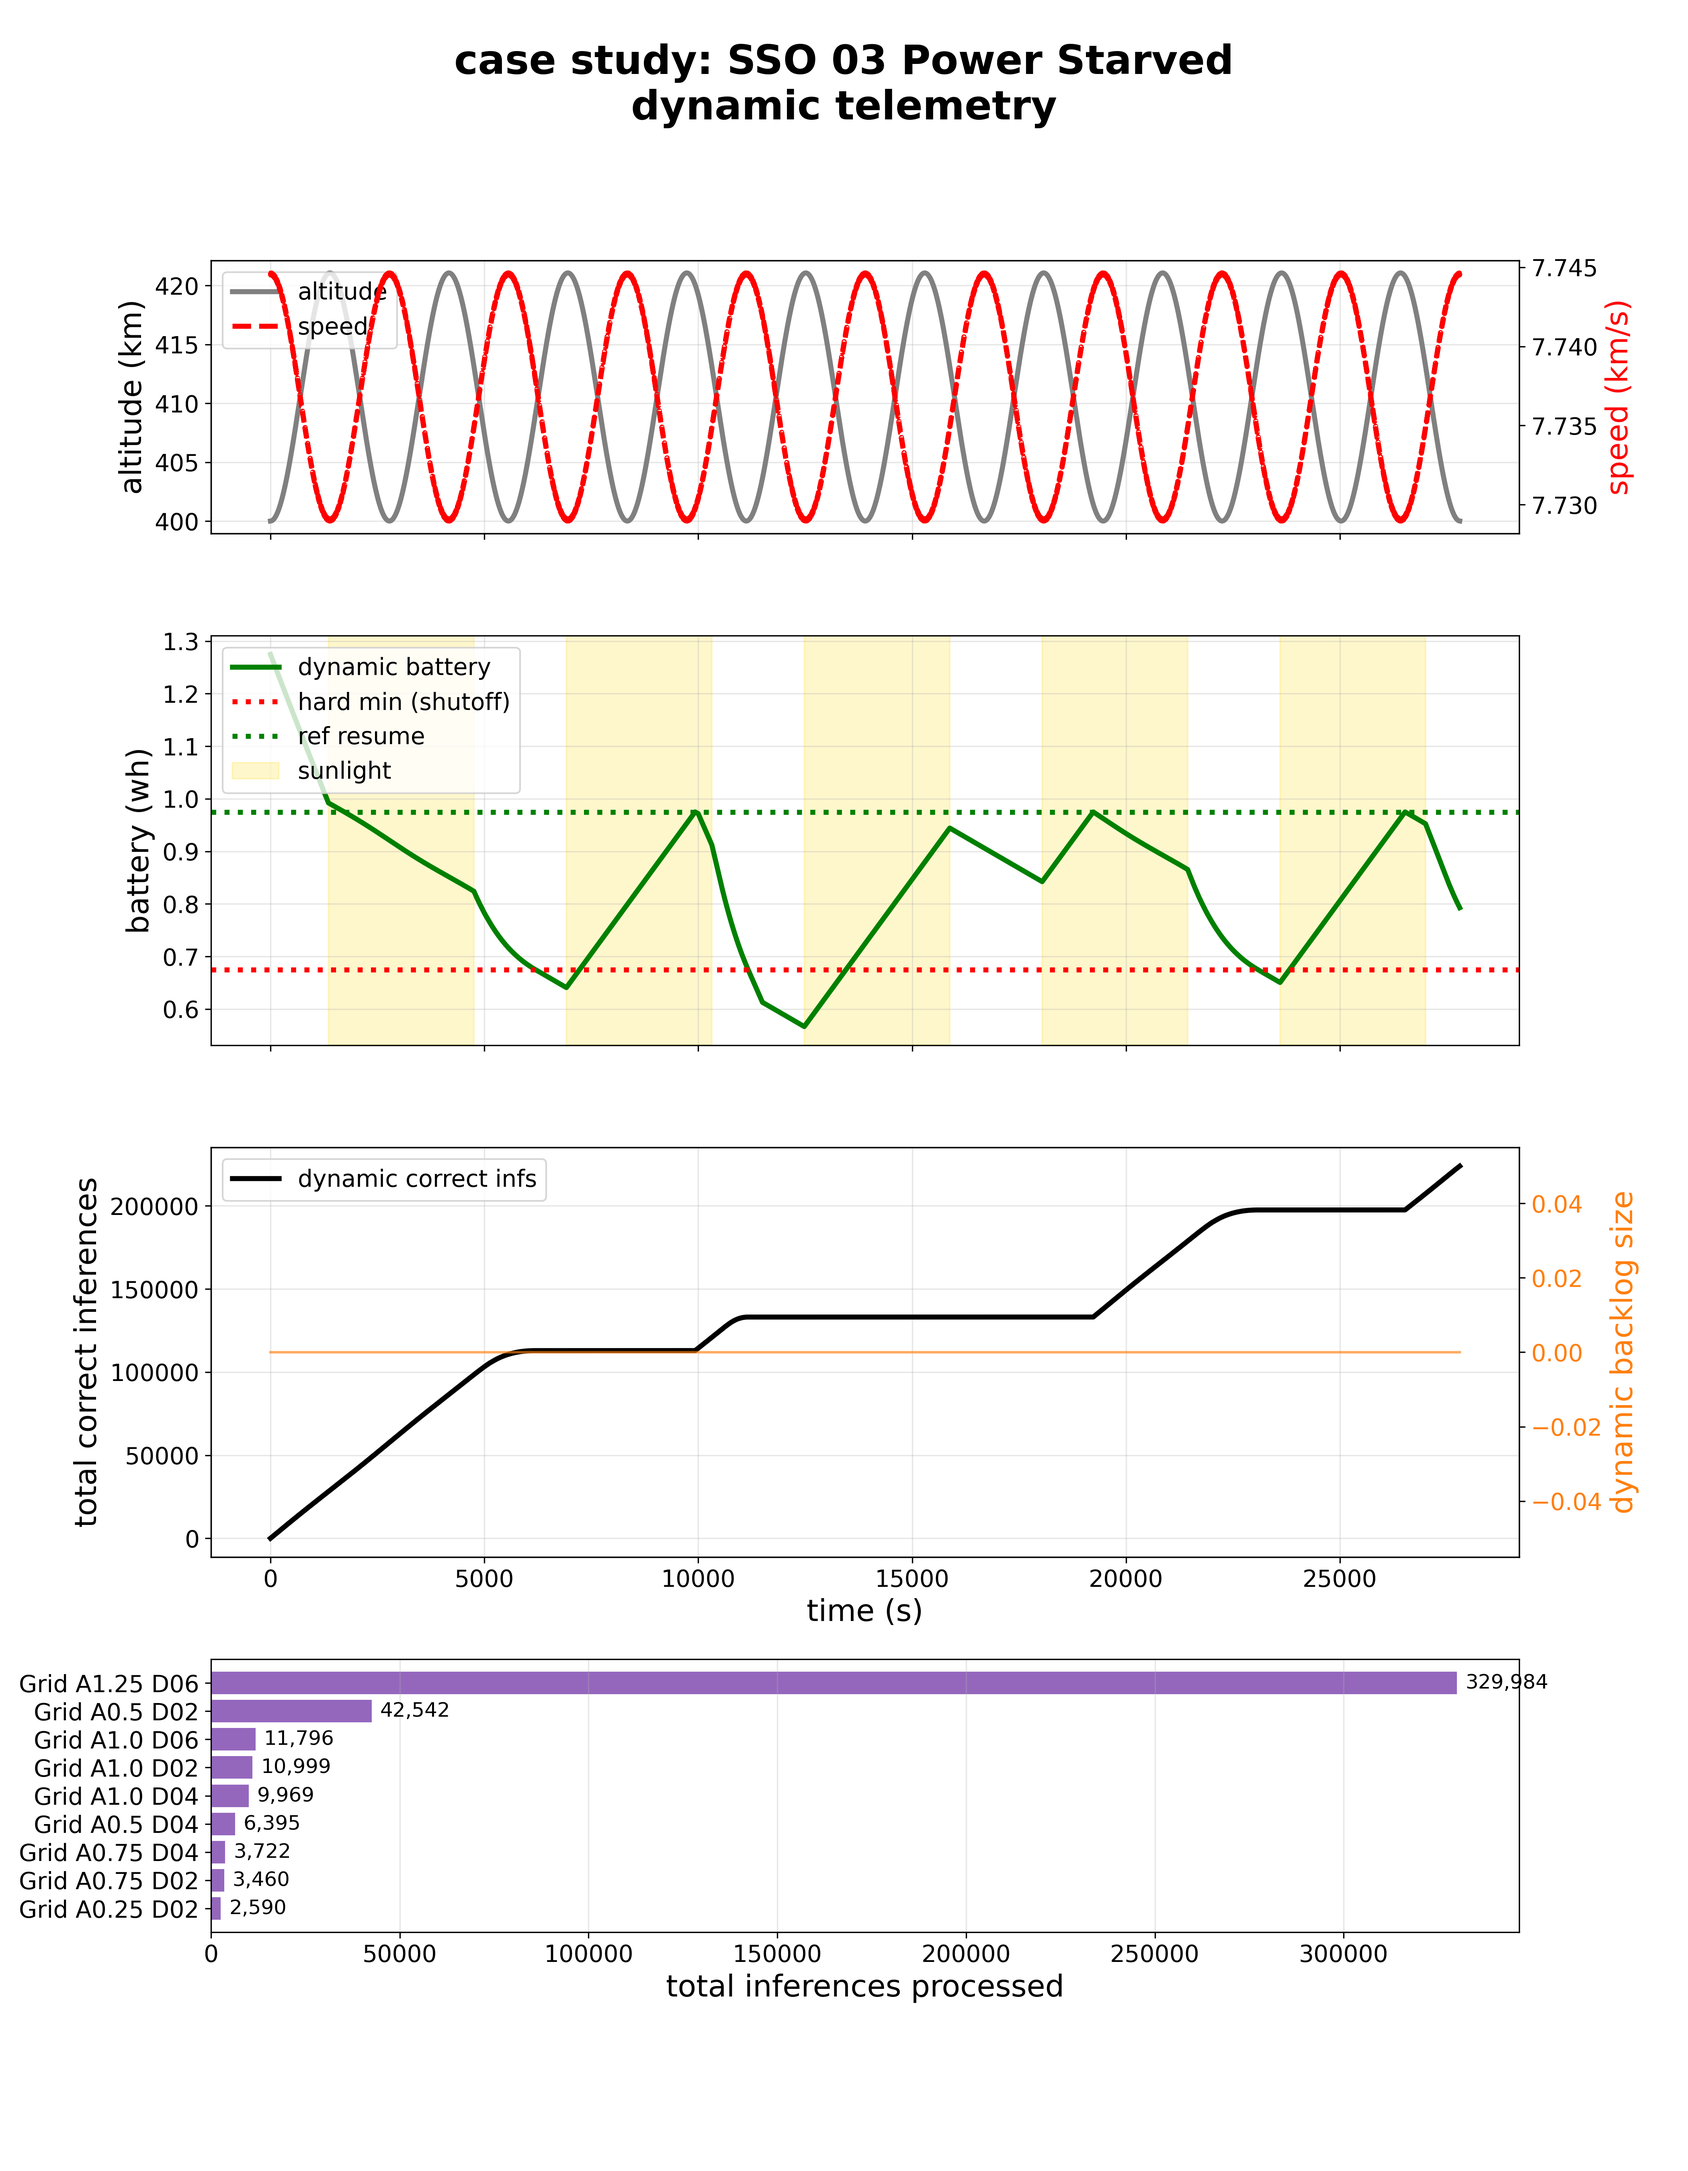
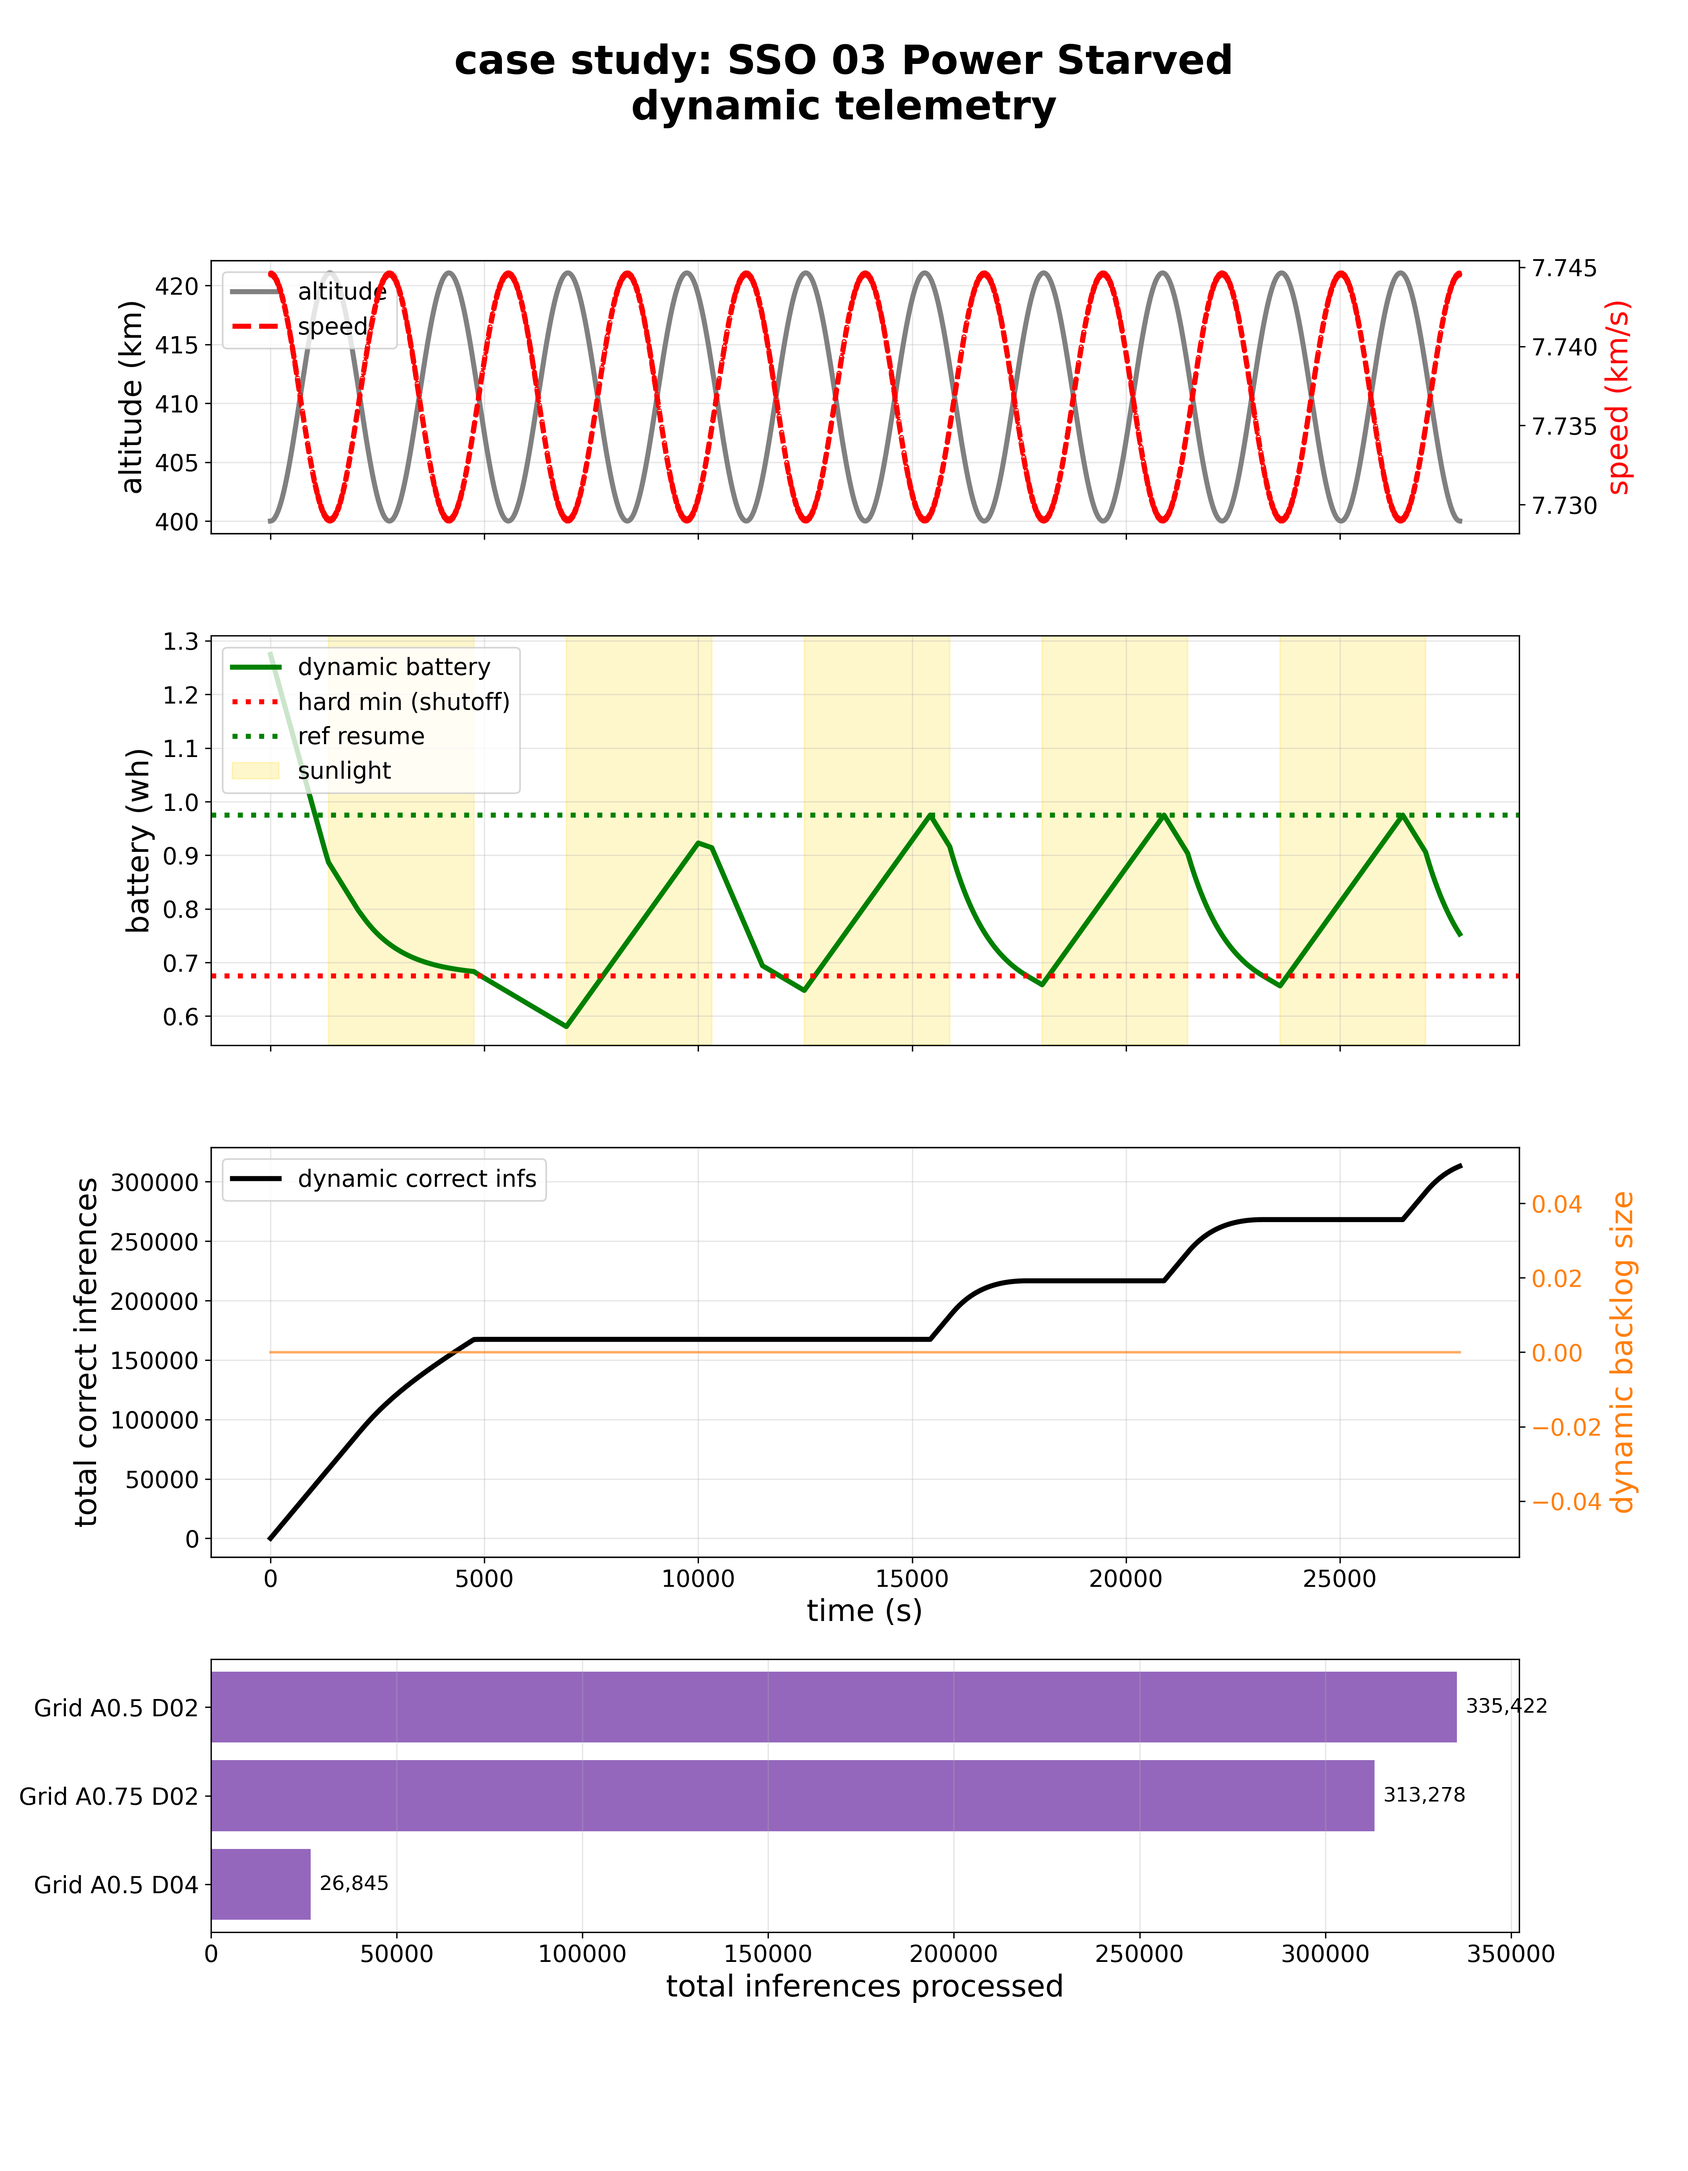
[results] chartsmithing

diff --git a/src/scripts/dynamic_selection_sims/plotting_utils.py b/src/scripts/dynamic_selection_sims/plotting_utils.py
@@ -4,16 +4,133 @@ import pandas as pd
 
 def set_plot_style():
     plt.rcParams.update({
-        'font.size': 16,
-        'axes.titlesize': 20,
-        'axes.labelsize': 18,
-        'xtick.labelsize': 14,
-        'ytick.labelsize': 14,
-        'legend.fontsize': 14,
-        'lines.linewidth': 3.0,
-        'figure.titlesize': 24,
+        'font.size': 14,
+        'axes.titlesize': 18,
+        'axes.labelsize': 16,
+        'xtick.labelsize': 12,
+        'ytick.labelsize': 12,
+        'legend.fontsize': 12,
+        'lines.linewidth': 2.5,
+        'figure.titlesize': 20,
         'figure.titleweight': 'bold'
     })
+
+
+def _get_model_colors(model_names):
+    """Assigns consistent colors to models, forcing non-compute states to grey."""
+    unique_models = list(dict.fromkeys(model_names))
+    cmap = plt.get_cmap('tab20')
+    color_dict = {}
+    
+    color_idx = 0
+    for m in unique_models:
+        if m in ['Idle', 'RECHARGE', 'Blind', 'BLOCKED']:
+            color_dict[m] = '#d3d3d3' # light grey for inactive states
+        else:
+            color_dict[m] = cmap(color_idx % 20)
+            color_idx += 1
+    return color_dict
+
+def _plot_segmented_line(ax, t, y, categories, color_dict, ylabel="Cumulative Yield"):
+    """Plots a single continuous line, changing colors based on the category array."""
+    start_idx = 0
+    seen_labels = set()
+    handles, labels = [], []
+    
+    for i in range(1, len(categories)):
+        # check if category changed or if we are at the end of the array
+        if categories[i] != categories[i-1] or i == len(categories) - 1:
+            # overlap by 1 index so the lines connect seamlessly without gaps
+            end_idx = i + 1 if i < len(categories) - 1 else i + 1
+            
+            current_cat = categories[start_idx]
+            
+            # only add to legend if it's a compute model we haven't labeled yet
+            label = None
+            if current_cat not in seen_labels and current_cat not in ['Idle', 'RECHARGE', 'Blind', 'BLOCKED']:
+                label = current_cat
+                seen_labels.add(current_cat)
+                
+            line, = ax.plot(t[start_idx:end_idx], y[start_idx:end_idx], 
+                    color=color_dict[current_cat], linewidth=3.5, label=label)
+            
+            if label:
+                handles.append(line)
+                labels.append(label)
+                
+            start_idx = i
+            
+    ax.set_ylabel(ylabel, color='tab:blue')
+    ax.tick_params(axis='y', labelcolor='tab:blue')
+    
+    return handles, labels
+
+
+def plot_telemetry(logs, case_name, cfg, output_dir):
+    set_plot_style()
+    clean_name = case_name.replace('_', ' ')
+    t_plot = np.array(logs['time_rel'])
+    
+    fig, (ax1, ax2) = plt.subplots(2, 1, figsize=(14, 10), sharex=True, gridspec_kw={'hspace': 0.15})
+    
+    # bump the title up to make room for the floating legend
+    fig.suptitle(f"case study telemetry: {clean_name}", y=1.05) 
+
+    # orbit dynamics
+    ax1.plot(t_plot, logs['alt_km'], color='dimgray', label='altitude')
+    ax1.set_ylabel('altitude (km)')
+    
+    # calc dynamic padding for altitude so it scales cleanly
+    alt_span = np.max(logs['alt_km']) - np.min(logs['alt_km'])
+    if alt_span == 0: alt_span = np.max(logs['alt_km']) * 0.1 
+    ax1.set_ylim(np.min(logs['alt_km']) - (0.1 * alt_span), np.max(logs['alt_km']) + (0.1 * alt_span))
+    
+    ax1_t = ax1.twinx()
+    ax1_t.plot(t_plot, logs['speed_km_s'], color='tab:red', linestyle='--', alpha=0.7, label='ground speed')
+    ax1_t.set_ylabel('speed (km/s)', color='tab:red')
+    
+    # copy the exact same 10% padding logic for speed
+    spd_span = np.max(logs['speed_km_s']) - np.min(logs['speed_km_s'])
+    if spd_span == 0: spd_span = np.max(logs['speed_km_s']) * 0.1
+    ax1_t.set_ylim(np.min(logs['speed_km_s']) - (0.1 * spd_span), np.max(logs['speed_km_s']) + (0.1 * spd_span))
+    
+    # float the legend above the top axis, spread across 2 columns
+    lines_1, labels_1 = ax1.get_legend_handles_labels()
+    lines_2, labels_2 = ax1_t.get_legend_handles_labels()
+    ax1.legend(lines_1 + lines_2, labels_1 + labels_2, loc='lower center', 
+            bbox_to_anchor=(0.5, 1.02), ncol=2, frameon=False)
+    ax1.grid(True, alpha=0.3)
+
+    # combined energy & yield
+    ax2.plot(t_plot, logs['battery_wh'], color='tab:green', linewidth=3, label='battery charge')
+    ax2.axhline(cfg['battery_capacity_wh']*cfg['compute_disable_pct'], color='tab:red', linestyle=':', label='hard lock limit')
+    ax2.axhline(cfg['battery_capacity_wh']*cfg['compute_enable_pct'], color='tab:green', linestyle=':', label='resume limit')
+    
+    lit = np.array(logs['is_lit'])
+    ax2.fill_between(t_plot, 0, 1, where=(lit > 0.5), transform=ax2.get_xaxis_transform(), 
+                    color='gold', alpha=0.15, label='sunlight interval')
+    
+    ax2.set_ylabel('battery (wh)')
+    ax2.set_xlabel('mission time (s)')
+    ax2.grid(True, alpha=0.3)
+    
+    # keep the battery legend tucked top-left inside the plot
+    ax2.legend(loc='upper left', frameon=True, framealpha=0.85, bbox_to_anchor=(0.02, 0.98))
+
+    # segmented yield on right axis
+    ax2_t = ax2.twinx()
+    color_dict = _get_model_colors(logs['model_name'])
+    handles, labels = _plot_segmented_line(ax2_t, t_plot, logs['cum_correct'], logs['model_name'], color_dict, ylabel="cumulative correct inferences")
+    
+    # model legend below x-axis
+    if handles:
+        ncol = min(4, len(labels))
+        ax2_t.legend(handles, labels, loc='upper center', bbox_to_anchor=(0.5, -0.15), 
+                    ncol=ncol, frameon=False, title="active processing models")
+        
+    save_path = output_dir / f"{case_name}_telemetry.png"
+    plt.savefig(save_path, dpi=300, bbox_inches='tight')
+    plt.close()
 
 def plot_orbit_dynamics(logs, case_name, output_dir):
     set_plot_style()
@@ -54,73 +171,6 @@ def plot_orbit_dynamics(logs, case_name, output_dir):
 
     plt.tight_layout(rect=[0, 0, 1, 0.95])
     save_path = output_dir / f"{case_name}_orbit_dynamics.png"
-    plt.savefig(save_path, dpi=300)
-    plt.close()
-
-def plot_telemetry(logs, case_name, cfg, output_dir):
-    set_plot_style()
-    clean_name = case_name.replace('_', ' ')
-    t_plot = np.array(logs['time_rel'])
-    
-    fig = plt.figure(figsize=(14, 18))
-    gs = fig.add_gridspec(4, 1, height_ratios=[1, 1.5, 1.5, 1], hspace=0.3)
-    fig.suptitle(f"case study: {clean_name}\ndynamic telemetry", y=0.98)
-
-    ax1 = fig.add_subplot(gs[0])
-    ax2 = fig.add_subplot(gs[1], sharex=ax1)
-    ax3 = fig.add_subplot(gs[2], sharex=ax1)
-    ax4 = fig.add_subplot(gs[3])
-
-    ax1.plot(t_plot, logs['alt_km'], color='gray', label='altitude')
-    ax1.set_ylabel('altitude (km)')
-    
-    ax1_t = ax1.twinx()
-    ax1_t.plot(t_plot, logs['speed_km_s'], 'r--', label='speed')
-    ax1_t.set_ylabel('speed (km/s)', color='r')
-    
-    lines_1, labels_1 = ax1.get_legend_handles_labels()
-    lines_2, labels_2 = ax1_t.get_legend_handles_labels()
-    ax1.legend(lines_1 + lines_2, labels_1 + labels_2, loc='upper left')
-    ax1.grid(True, alpha=0.3)
-    plt.setp(ax1.get_xticklabels(), visible=False)
-
-    ax2.plot(t_plot, logs['battery_wh'], 'g', label='dynamic battery')
-    ax2.axhline(cfg['battery_capacity_wh']*cfg['compute_disable_pct'], color='r', linestyle=':', label='hard min (shutoff)')
-    ax2.axhline(cfg['battery_capacity_wh']*cfg['compute_enable_pct'], color='g', linestyle=':', label='ref resume')
-    
-    lit = np.array(logs['is_lit'])
-    ax2.fill_between(t_plot, 0, 1, where=(lit > 0.5), transform=ax2.get_xaxis_transform(), color='gold', alpha=0.2, label='sunlight')
-    ax2.set_ylabel('battery (wh)')
-    ax2.legend(loc='upper left')
-    ax2.grid(True, alpha=0.3)
-    plt.setp(ax2.get_xticklabels(), visible=False)
-
-    ax3.plot(t_plot, logs['cum_correct'], 'k', label='dynamic correct infs')
-    ax3.set_ylabel('total correct inferences')
-    ax3.legend(loc='upper left')
-    ax3.grid(True, alpha=0.3)
-    
-    ax3_t = ax3.twinx()
-    ax3_t.fill_between(t_plot, logs['backlog_infs'], color='tab:orange', alpha=0.15, label='backlog')
-    ax3_t.plot(t_plot, logs['backlog_infs'], color='tab:orange', linewidth=1.5, alpha=0.6)
-    ax3_t.set_ylabel('dynamic backlog size', color='tab:orange')
-    ax3_t.tick_params(axis='y', labelcolor='tab:orange')
-    ax3.set_xlabel('time (s)')
-
-    df_log = pd.DataFrame({'model': logs['model_name'], 'infs': logs['throughput_infs']})
-    stats = df_log[df_log['infs'] > 0].groupby('model')['infs'].sum().sort_values()
-    
-    if not stats.empty:
-        bars = ax4.barh(stats.index, stats.values, color='tab:purple')
-        ax4.bar_label(bars, fmt='{:,.0f}', padding=5, fontsize=12)
-    else:
-        ax4.text(0.5, 0.5, "no inferences performed", ha='center', va='center', fontsize=16)
-    
-    ax4.set_xlabel('total inferences processed')
-    ax4.grid(True, axis='x', alpha=0.3)
-
-    plt.tight_layout(rect=[0, 0, 1, 0.96])
-    save_path = output_dir / f"{case_name}.png"
     plt.savefig(save_path, dpi=300)
     plt.close()
 
